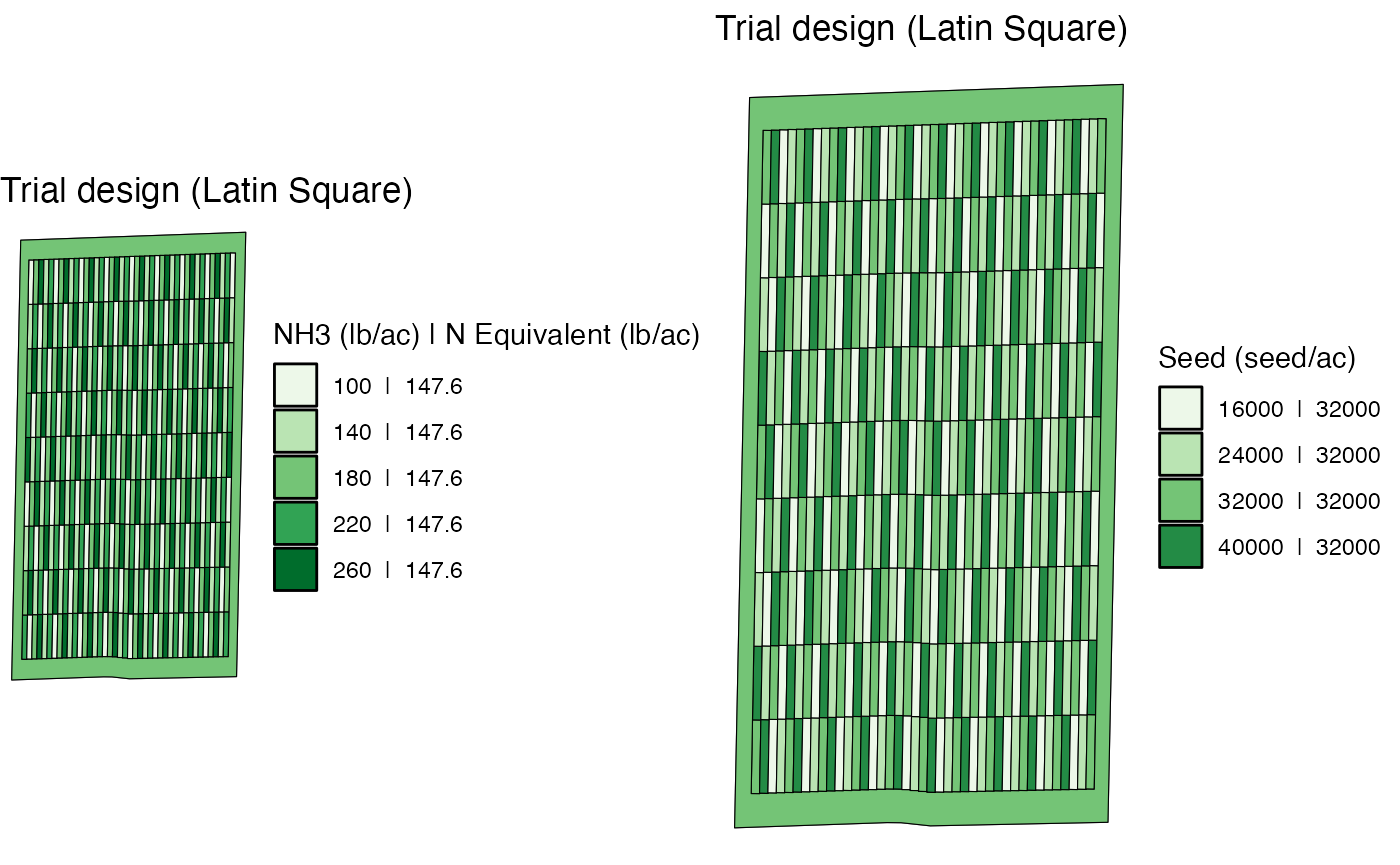
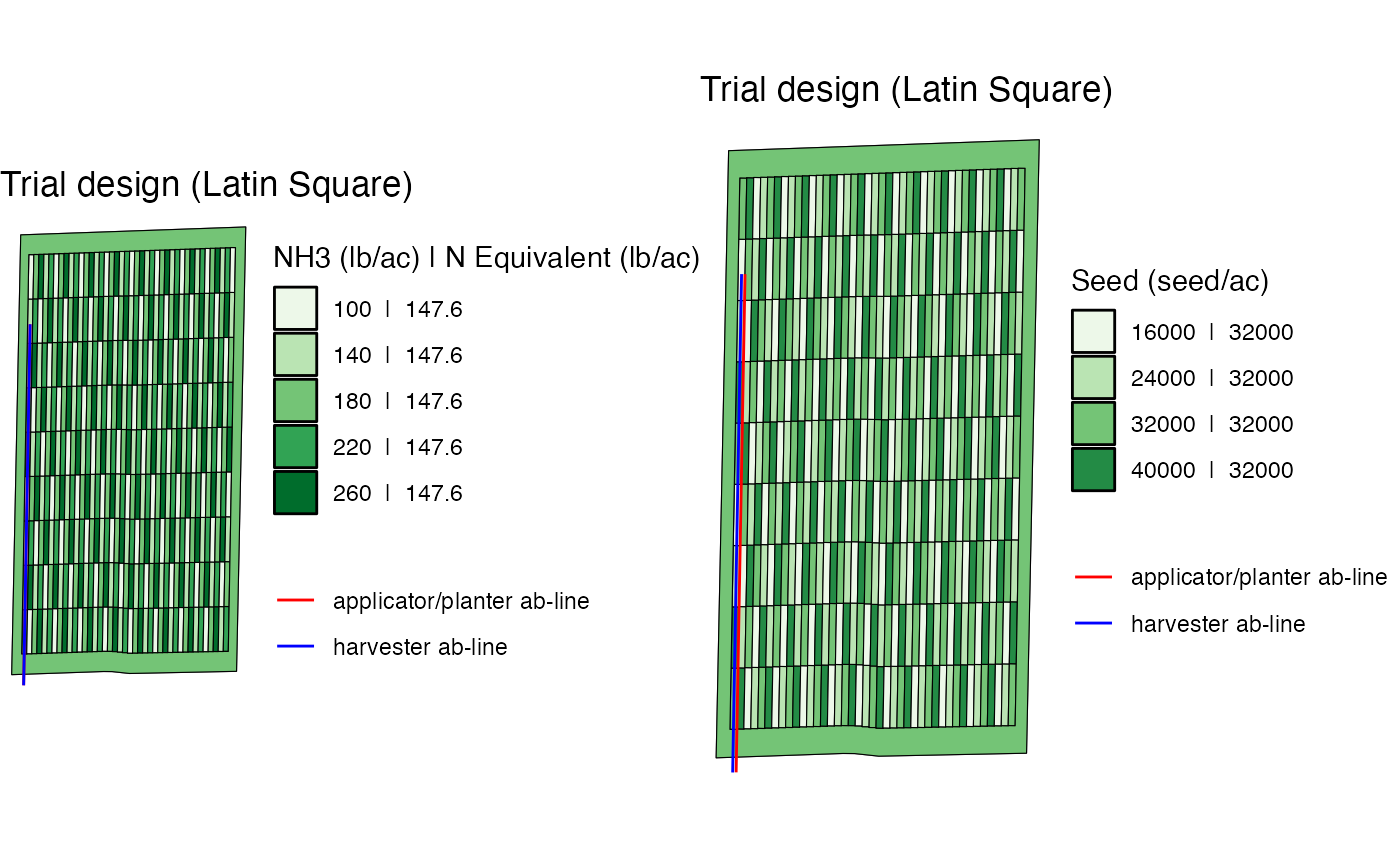
rebuild vignettes and clean up files

Changed region(s): [[0.0, 0.0936, 1.0, 0.9676], [0.5221, 0.0, 0.7986, 0.0624]]

diff --git a/docs/reference/make_trial_report.html b/docs/reference/make_trial_report.html
@@ -1,5 +1,5 @@
 <!DOCTYPE html>
-<!-- Generated by pkgdown: do not edit by hand --><html lang="en"><head><meta http-equiv="Content-Type" content="text/html; charset=UTF-8"><meta charset="utf-8"><meta http-equiv="X-UA-Compatible" content="IE=edge"><meta name="viewport" content="width=device-width, initial-scale=1.0"><title>Create trial design report — make_trial_report • ofpetrial</title><!-- jquery --><script src="https://cdnjs.cloudflare.com/ajax/libs/jquery/3.7.1/jquery.min.js" integrity="sha512-v2CJ7UaYy4JwqLDIrZUI/4hqeoQieOmAZNXBeQyjo21dadnwR+8ZaIJVT8EE2iyI61OV8e6M8PP2/4hpQINQ/g==" crossorigin="anonymous" referrerpolicy="no-referrer"></script><!-- Bootstrap --><link rel="stylesheet" href="https://cdnjs.cloudflare.com/ajax/libs/twitter-bootstrap/3.4.1/css/bootstrap.min.css" integrity="sha256-bZLfwXAP04zRMK2BjiO8iu9pf4FbLqX6zitd+tIvLhE=" crossorigin="anonymous"><script src="https://cdnjs.cloudflare.com/ajax/libs/twitter-bootstrap/3.4.1/js/bootstrap.min.js" integrity="sha256-nuL8/2cJ5NDSSwnKD8VqreErSWHtnEP9E7AySL+1ev4=" crossorigin="anonymous"></script><!-- bootstrap-toc --><link rel="stylesheet" href="../bootstrap-toc.css"><script src="../bootstrap-toc.js"></script><!-- Font Awesome icons --><link rel="stylesheet" href="https://cdnjs.cloudflare.com/ajax/libs/font-awesome/5.12.1/css/all.min.css" integrity="sha256-mmgLkCYLUQbXn0B1SRqzHar6dCnv9oZFPEC1g1cwlkk=" crossorigin="anonymous"><link rel="stylesheet" href="https://cdnjs.cloudflare.com/ajax/libs/font-awesome/5.12.1/css/v4-shims.min.css" integrity="sha256-wZjR52fzng1pJHwx4aV2AO3yyTOXrcDW7jBpJtTwVxw=" crossorigin="anonymous"><!-- clipboard.js --><script src="https://cdnjs.cloudflare.com/ajax/libs/clipboard.js/2.0.6/clipboard.min.js" integrity="sha256-inc5kl9MA1hkeYUt+EC3BhlIgyp/2jDIyBLS6k3UxPI=" crossorigin="anonymous"></script><!-- headroom.js --><script src="https://cdnjs.cloudflare.com/ajax/libs/headroom/0.11.0/headroom.min.js" integrity="sha256-AsUX4SJE1+yuDu5+mAVzJbuYNPHj/WroHuZ8Ir/CkE0=" crossorigin="anonymous"></script><script src="https://cdnjs.cloudflare.com/ajax/libs/headroom/0.11.0/jQuery.headroom.min.js" integrity="sha256-ZX/yNShbjqsohH1k95liqY9Gd8uOiE1S4vZc+9KQ1K4=" crossorigin="anonymous"></script><!-- pkgdown --><link href="../pkgdown.css" rel="stylesheet"><script src="../pkgdown.js"></script><meta property="og:title" content="Create trial design report — make_trial_report"><meta property="og:description" content="This function creates a report describing the trial design created by the user with assign_rates() and includes figures showing machine alignment"><!-- mathjax --><script src="https://cdnjs.cloudflare.com/ajax/libs/mathjax/2.7.5/MathJax.js" integrity="sha256-nvJJv9wWKEm88qvoQl9ekL2J+k/RWIsaSScxxlsrv8k=" crossorigin="anonymous"></script><script src="https://cdnjs.cloudflare.com/ajax/libs/mathjax/2.7.5/config/TeX-AMS-MML_HTMLorMML.js" integrity="sha256-84DKXVJXs0/F8OTMzX4UR909+jtl4G7SPypPavF+GfA=" crossorigin="anonymous"></script><!--[if lt IE 9]>
+<!-- Generated by pkgdown: do not edit by hand --><html lang="en"><head><meta http-equiv="Content-Type" content="text/html; charset=UTF-8"><meta charset="utf-8"><meta http-equiv="X-UA-Compatible" content="IE=edge"><meta name="viewport" content="width=device-width, initial-scale=1.0"><title>Create trial design report — make_trial_report • ofpetrial</title><!-- jquery --><script src="https://cdnjs.cloudflare.com/ajax/libs/jquery/3.7.1/jquery.min.js" integrity="sha512-v2CJ7UaYy4JwqLDIrZUI/4hqeoQieOmAZNXBeQyjo21dadnwR+8ZaIJVT8EE2iyI61OV8e6M8PP2/4hpQINQ/g==" crossorigin="anonymous" referrerpolicy="no-referrer"></script><!-- Bootstrap --><link rel="stylesheet" href="https://cdnjs.cloudflare.com/ajax/libs/twitter-bootstrap/3.4.1/css/bootstrap.min.css" integrity="sha256-bZLfwXAP04zRMK2BjiO8iu9pf4FbLqX6zitd+tIvLhE=" crossorigin="anonymous"><script src="https://cdnjs.cloudflare.com/ajax/libs/twitter-bootstrap/3.4.1/js/bootstrap.min.js" integrity="sha256-nuL8/2cJ5NDSSwnKD8VqreErSWHtnEP9E7AySL+1ev4=" crossorigin="anonymous"></script><!-- bootstrap-toc --><link rel="stylesheet" href="../bootstrap-toc.css"><script src="../bootstrap-toc.js"></script><!-- Font Awesome icons --><link rel="stylesheet" href="https://cdnjs.cloudflare.com/ajax/libs/font-awesome/5.12.1/css/all.min.css" integrity="sha256-mmgLkCYLUQbXn0B1SRqzHar6dCnv9oZFPEC1g1cwlkk=" crossorigin="anonymous"><link rel="stylesheet" href="https://cdnjs.cloudflare.com/ajax/libs/font-awesome/5.12.1/css/v4-shims.min.css" integrity="sha256-wZjR52fzng1pJHwx4aV2AO3yyTOXrcDW7jBpJtTwVxw=" crossorigin="anonymous"><!-- clipboard.js --><script src="https://cdnjs.cloudflare.com/ajax/libs/clipboard.js/2.0.6/clipboard.min.js" integrity="sha256-inc5kl9MA1hkeYUt+EC3BhlIgyp/2jDIyBLS6k3UxPI=" crossorigin="anonymous"></script><!-- headroom.js --><script src="https://cdnjs.cloudflare.com/ajax/libs/headroom/0.11.0/headroom.min.js" integrity="sha256-AsUX4SJE1+yuDu5+mAVzJbuYNPHj/WroHuZ8Ir/CkE0=" crossorigin="anonymous"></script><script src="https://cdnjs.cloudflare.com/ajax/libs/headroom/0.11.0/jQuery.headroom.min.js" integrity="sha256-ZX/yNShbjqsohH1k95liqY9Gd8uOiE1S4vZc+9KQ1K4=" crossorigin="anonymous"></script><!-- pkgdown --><link href="../pkgdown.css" rel="stylesheet"><script src="../pkgdown.js"></script><meta property="og:title" content="Create trial design report — make_trial_report"><meta property="og:description" content="This function creates an html report describing the trial design created by the user with assign_rates() and includes figures showing machine alignment"><!-- mathjax --><script src="https://cdnjs.cloudflare.com/ajax/libs/mathjax/2.7.5/MathJax.js" integrity="sha256-nvJJv9wWKEm88qvoQl9ekL2J+k/RWIsaSScxxlsrv8k=" crossorigin="anonymous"></script><script src="https://cdnjs.cloudflare.com/ajax/libs/mathjax/2.7.5/config/TeX-AMS-MML_HTMLorMML.js" integrity="sha256-84DKXVJXs0/F8OTMzX4UR909+jtl4G7SPypPavF+GfA=" crossorigin="anonymous"></script><!--[if lt IE 9]>
 <script src="https://oss.maxcdn.com/html5shiv/3.7.3/html5shiv.min.js"></script>
 <script src="https://oss.maxcdn.com/respond/1.4.2/respond.min.js"></script>
 <![endif]--><!-- Global site tag (gtag.js) - Google Analytics --><script async src="https://www.googletagmanager.com/gtag/js?id=G-B09QYRX8XQ"></script><script>
@@ -80,11 +80,11 @@
     </div>
 
     <div class="ref-description">
-    <p>This function creates a report describing the trial design created by the user with assign_rates() and includes figures showing machine alignment</p>
+    <p>This function creates an html report describing the trial design created by the user with assign_rates() and includes figures showing machine alignment</p>
     </div>
 
     <div id="ref-usage">
-    <div class="sourceCode"><pre class="sourceCode r"><code><span><span class="fu">make_trial_report</span><span class="op">(</span><span class="va">td</span>, <span class="va">trial_name</span>, folder_path <span class="op">=</span> <span class="fu"><a href="https://rdrr.io/r/base/getwd.html" class="external-link">getwd</a></span><span class="op">(</span><span class="op">)</span><span class="op">)</span></span></code></pre></div>
+    <div class="sourceCode"><pre class="sourceCode r"><code><span><span class="fu">make_trial_report</span><span class="op">(</span><span class="va">td</span>, folder_path <span class="op">=</span> <span class="fu"><a href="https://rdrr.io/r/base/getwd.html" class="external-link">getwd</a></span><span class="op">(</span><span class="op">)</span>, trial_name <span class="op">=</span> <span class="cn">NA</span>, keep_rmd <span class="op">=</span> <span class="cn">FALSE</span><span class="op">)</span></span></code></pre></div>
     </div>
 
     <div id="arguments">
@@ -93,47 +93,32 @@
 <dd><p>trial design created by assign_rates()</p></dd>
 
 
+<dt>folder_path</dt>
+<dd><p>(character) path to the folder in which the report will be saved</p></dd>
+
+
 <dt>trial_name</dt>
 <dd><p>(character) name of trial to be used in report</p></dd>
 
 
-<dt>folder_path</dt>
-<dd><p>(character) path to the folder in which the report will be saved</p></dd>
+<dt>keep_rmd</dt>
+<dd><p>(logical) If FALSE (Default), the original rmd file will be deleted upon creating an html report. Otherwise, the rmd file will be saved in the folder specified by `folder_path`.</p></dd>
 
 </dl></div>
     <div id="value">
     <h2>Value</h2>
     
 
-<p>html document with trial design description and figures to guide trial implementation based on your machinery and plot sizes</p>
+<p>path to the resulting html file (invisible)</p>
     </div>
 
     <div id="ref-examples">
     <h2>Examples</h2>
     <div class="sourceCode"><pre class="sourceCode r"><code><span class="r-in"><span><span class="co">#--- load experiment made by assign_rates() ---#</span></span></span>
 <span class="r-in"><span><span class="fu"><a href="https://rdrr.io/r/utils/data.html" class="external-link">data</a></span><span class="op">(</span><span class="va">td_single_input</span><span class="op">)</span></span></span>
-<span class="r-in"><span><span class="va">td_single_input</span></span></span>
-<span class="r-out co"><span class="r-pr">#&gt;</span> <span style="color: #949494;"># A tibble: 1 × 33</span></span>
-<span class="r-out co"><span class="r-pr">#&gt;</span>   input_name unit_system field_sf headland exp_plots ab_lines harvest_ab_lines</span>
-<span class="r-out co"><span class="r-pr">#&gt;</span>   <span style="color: #949494; font-style: italic;">&lt;chr&gt;</span>      <span style="color: #949494; font-style: italic;">&lt;chr&gt;</span>       <span style="color: #949494; font-style: italic;">&lt;list&gt;</span>   <span style="color: #949494; font-style: italic;">&lt;list&gt;</span>   <span style="color: #949494; font-style: italic;">&lt;list&gt;</span>    <span style="color: #949494; font-style: italic;">&lt;list&gt;</span>   <span style="color: #949494; font-style: italic;">&lt;list&gt;</span>          </span>
-<span class="r-out co"><span class="r-pr">#&gt;</span> <span style="color: #BCBCBC;">1</span> NH3        imperial    <span style="color: #949494;">&lt;sf&gt;</span>     <span style="color: #949494;">&lt;sf&gt;</span>     <span style="color: #949494;">&lt;sf&gt;</span>      <span style="color: #949494;">&lt;sf&gt;</span>     <span style="color: #949494;">&lt;sf [1 × 2]&gt;</span>    </span>
-<span class="r-out co"><span class="r-pr">#&gt;</span> <span style="color: #949494;"># ℹ 26 more variables: plot_width &lt;dbl&gt;, harvester_width &lt;dbl&gt;,</span></span>
-<span class="r-out co"><span class="r-pr">#&gt;</span> <span style="color: #949494;">#   machine_width &lt;dbl&gt;, section_num &lt;dbl&gt;, headland_length &lt;dbl&gt;,</span></span>
-<span class="r-out co"><span class="r-pr">#&gt;</span> <span style="color: #949494;">#   side_length &lt;dbl&gt;, abline_type &lt;chr&gt;, design_type &lt;chr&gt;, gc_rate &lt;dbl&gt;,</span></span>
-<span class="r-out co"><span class="r-pr">#&gt;</span> <span style="color: #949494;">#   unit &lt;chr&gt;, tgt_rate_original &lt;list&gt;, tgt_rate_equiv &lt;list&gt;,</span></span>
-<span class="r-out co"><span class="r-pr">#&gt;</span> <span style="color: #949494;">#   include_base_rate &lt;lgl&gt;, base_input &lt;chr&gt;, base_rate_original &lt;dbl&gt;,</span></span>
-<span class="r-out co"><span class="r-pr">#&gt;</span> <span style="color: #949494;">#   base_rate_equiv &lt;dbl&gt;, total_equiv &lt;list&gt;, min_rate &lt;lgl&gt;, max_rate &lt;lgl&gt;,</span></span>
-<span class="r-out co"><span class="r-pr">#&gt;</span> <span style="color: #949494;">#   num_rates &lt;int&gt;, rank_seq_ws &lt;list&gt;, rank_seq_as &lt;list&gt;, …</span></span>
-<span class="r-in"><span><span class="kw">if</span> <span class="op">(</span><span class="cn">FALSE</span><span class="op">)</span> <span class="op">{</span></span></span>
 <span class="r-in"><span><span class="fu">make_trial_report</span><span class="op">(</span></span></span>
-<span class="r-in"><span>  <span class="va">td_single_input</span>,</span></span>
-<span class="r-in"><span>  <span class="st">"Test Trial"</span>,</span></span>
-<span class="r-in"><span>  <span class="va">folder_path</span></span></span>
+<span class="r-in"><span>  td <span class="op">=</span> <span class="va">td_single_input</span></span></span>
 <span class="r-in"><span><span class="op">)</span></span></span>
-<span class="r-in"><span><span class="op">}</span></span></span>
-<span class="r-in"><span></span></span>
-<span class="r-in"><span><span class="co"># Rmd</span></span></span>
-<span class="r-in"><span><span class="co"># Wrapping up</span></span></span>
 </code></pre></div>
     </div>
   </div>

diff --git a/docs/reference/ofpetrial-package.html b/docs/reference/ofpetrial-package.html
@@ -1,5 +1,5 @@
 <!DOCTYPE html>
-<!-- Generated by pkgdown: do not edit by hand --><html lang="en"><head><meta http-equiv="Content-Type" content="text/html; charset=UTF-8"><meta charset="utf-8"><meta http-equiv="X-UA-Compatible" content="IE=edge"><meta name="viewport" content="width=device-width, initial-scale=1.0"><title>ofpetrial: Design On-farm Precision Field Agronomic Trials — ofpetrial-package • ofpetrial</title><!-- jquery --><script src="https://cdnjs.cloudflare.com/ajax/libs/jquery/3.7.1/jquery.min.js" integrity="sha512-v2CJ7UaYy4JwqLDIrZUI/4hqeoQieOmAZNXBeQyjo21dadnwR+8ZaIJVT8EE2iyI61OV8e6M8PP2/4hpQINQ/g==" crossorigin="anonymous" referrerpolicy="no-referrer"></script><!-- Bootstrap --><link rel="stylesheet" href="https://cdnjs.cloudflare.com/ajax/libs/twitter-bootstrap/3.4.1/css/bootstrap.min.css" integrity="sha256-bZLfwXAP04zRMK2BjiO8iu9pf4FbLqX6zitd+tIvLhE=" crossorigin="anonymous"><script src="https://cdnjs.cloudflare.com/ajax/libs/twitter-bootstrap/3.4.1/js/bootstrap.min.js" integrity="sha256-nuL8/2cJ5NDSSwnKD8VqreErSWHtnEP9E7AySL+1ev4=" crossorigin="anonymous"></script><!-- bootstrap-toc --><link rel="stylesheet" href="../bootstrap-toc.css"><script src="../bootstrap-toc.js"></script><!-- Font Awesome icons --><link rel="stylesheet" href="https://cdnjs.cloudflare.com/ajax/libs/font-awesome/5.12.1/css/all.min.css" integrity="sha256-mmgLkCYLUQbXn0B1SRqzHar6dCnv9oZFPEC1g1cwlkk=" crossorigin="anonymous"><link rel="stylesheet" href="https://cdnjs.cloudflare.com/ajax/libs/font-awesome/5.12.1/css/v4-shims.min.css" integrity="sha256-wZjR52fzng1pJHwx4aV2AO3yyTOXrcDW7jBpJtTwVxw=" crossorigin="anonymous"><!-- clipboard.js --><script src="https://cdnjs.cloudflare.com/ajax/libs/clipboard.js/2.0.6/clipboard.min.js" integrity="sha256-inc5kl9MA1hkeYUt+EC3BhlIgyp/2jDIyBLS6k3UxPI=" crossorigin="anonymous"></script><!-- headroom.js --><script src="https://cdnjs.cloudflare.com/ajax/libs/headroom/0.11.0/headroom.min.js" integrity="sha256-AsUX4SJE1+yuDu5+mAVzJbuYNPHj/WroHuZ8Ir/CkE0=" crossorigin="anonymous"></script><script src="https://cdnjs.cloudflare.com/ajax/libs/headroom/0.11.0/jQuery.headroom.min.js" integrity="sha256-ZX/yNShbjqsohH1k95liqY9Gd8uOiE1S4vZc+9KQ1K4=" crossorigin="anonymous"></script><!-- pkgdown --><link href="../pkgdown.css" rel="stylesheet"><script src="../pkgdown.js"></script><meta property="og:title" content="ofpetrial: Design On-farm Precision Field Agronomic Trials — ofpetrial-package"><meta property="og:description" content="A comprehensive system for designing and implementing on-farm precision field agronomic trials. You provide field data, tell 'ofpetrial' how to design a trial, and get readily-usable trial design files and a report checks the validity and reliability of the trial design."><!-- mathjax --><script src="https://cdnjs.cloudflare.com/ajax/libs/mathjax/2.7.5/MathJax.js" integrity="sha256-nvJJv9wWKEm88qvoQl9ekL2J+k/RWIsaSScxxlsrv8k=" crossorigin="anonymous"></script><script src="https://cdnjs.cloudflare.com/ajax/libs/mathjax/2.7.5/config/TeX-AMS-MML_HTMLorMML.js" integrity="sha256-84DKXVJXs0/F8OTMzX4UR909+jtl4G7SPypPavF+GfA=" crossorigin="anonymous"></script><!--[if lt IE 9]>
+<!-- Generated by pkgdown: do not edit by hand --><html lang="en"><head><meta http-equiv="Content-Type" content="text/html; charset=UTF-8"><meta charset="utf-8"><meta http-equiv="X-UA-Compatible" content="IE=edge"><meta name="viewport" content="width=device-width, initial-scale=1.0"><title>ofpetrial: Design On-Farm Precision Field Agronomic Trials — ofpetrial-package • ofpetrial</title><!-- jquery --><script src="https://cdnjs.cloudflare.com/ajax/libs/jquery/3.7.1/jquery.min.js" integrity="sha512-v2CJ7UaYy4JwqLDIrZUI/4hqeoQieOmAZNXBeQyjo21dadnwR+8ZaIJVT8EE2iyI61OV8e6M8PP2/4hpQINQ/g==" crossorigin="anonymous" referrerpolicy="no-referrer"></script><!-- Bootstrap --><link rel="stylesheet" href="https://cdnjs.cloudflare.com/ajax/libs/twitter-bootstrap/3.4.1/css/bootstrap.min.css" integrity="sha256-bZLfwXAP04zRMK2BjiO8iu9pf4FbLqX6zitd+tIvLhE=" crossorigin="anonymous"><script src="https://cdnjs.cloudflare.com/ajax/libs/twitter-bootstrap/3.4.1/js/bootstrap.min.js" integrity="sha256-nuL8/2cJ5NDSSwnKD8VqreErSWHtnEP9E7AySL+1ev4=" crossorigin="anonymous"></script><!-- bootstrap-toc --><link rel="stylesheet" href="../bootstrap-toc.css"><script src="../bootstrap-toc.js"></script><!-- Font Awesome icons --><link rel="stylesheet" href="https://cdnjs.cloudflare.com/ajax/libs/font-awesome/5.12.1/css/all.min.css" integrity="sha256-mmgLkCYLUQbXn0B1SRqzHar6dCnv9oZFPEC1g1cwlkk=" crossorigin="anonymous"><link rel="stylesheet" href="https://cdnjs.cloudflare.com/ajax/libs/font-awesome/5.12.1/css/v4-shims.min.css" integrity="sha256-wZjR52fzng1pJHwx4aV2AO3yyTOXrcDW7jBpJtTwVxw=" crossorigin="anonymous"><!-- clipboard.js --><script src="https://cdnjs.cloudflare.com/ajax/libs/clipboard.js/2.0.6/clipboard.min.js" integrity="sha256-inc5kl9MA1hkeYUt+EC3BhlIgyp/2jDIyBLS6k3UxPI=" crossorigin="anonymous"></script><!-- headroom.js --><script src="https://cdnjs.cloudflare.com/ajax/libs/headroom/0.11.0/headroom.min.js" integrity="sha256-AsUX4SJE1+yuDu5+mAVzJbuYNPHj/WroHuZ8Ir/CkE0=" crossorigin="anonymous"></script><script src="https://cdnjs.cloudflare.com/ajax/libs/headroom/0.11.0/jQuery.headroom.min.js" integrity="sha256-ZX/yNShbjqsohH1k95liqY9Gd8uOiE1S4vZc+9KQ1K4=" crossorigin="anonymous"></script><!-- pkgdown --><link href="../pkgdown.css" rel="stylesheet"><script src="../pkgdown.js"></script><meta property="og:title" content="ofpetrial: Design On-Farm Precision Field Agronomic Trials — ofpetrial-package"><meta property="og:description" content="A comprehensive system for designing and implementing on-farm precision field agronomic trials. You provide field data, tell 'ofpetrial' how to design a trial, and get readily-usable trial design files and a report checks the validity and reliability of the trial design."><!-- mathjax --><script src="https://cdnjs.cloudflare.com/ajax/libs/mathjax/2.7.5/MathJax.js" integrity="sha256-nvJJv9wWKEm88qvoQl9ekL2J+k/RWIsaSScxxlsrv8k=" crossorigin="anonymous"></script><script src="https://cdnjs.cloudflare.com/ajax/libs/mathjax/2.7.5/config/TeX-AMS-MML_HTMLorMML.js" integrity="sha256-84DKXVJXs0/F8OTMzX4UR909+jtl4G7SPypPavF+GfA=" crossorigin="anonymous"></script><!--[if lt IE 9]>
 <script src="https://oss.maxcdn.com/html5shiv/3.7.3/html5shiv.min.js"></script>
 <script src="https://oss.maxcdn.com/respond/1.4.2/respond.min.js"></script>
 <![endif]--><!-- Global site tag (gtag.js) - Google Analytics --><script async src="https://www.googletagmanager.com/gtag/js?id=G-B09QYRX8XQ"></script><script>
@@ -74,7 +74,7 @@
       </header><div class="row">
   <div class="col-md-9 contents">
     <div class="page-header">
-    <h1>ofpetrial: Design On-farm Precision Field Agronomic Trials</h1>
+    <h1>ofpetrial: Design On-Farm Precision Field Agronomic Trials</h1>
     
     <div class="hidden name"><code>ofpetrial-package.Rd</code></div>
     </div>

diff --git a/docs/reference/check_ortho_with_chars.html b/docs/reference/check_ortho_with_chars.html
@@ -113,7 +113,7 @@
     <div class="sourceCode"><pre class="sourceCode r"><code><span class="r-in"><span><span class="fu"><a href="https://rdrr.io/r/utils/data.html" class="external-link">data</a></span><span class="op">(</span><span class="va">td_single_input</span><span class="op">)</span></span></span>
 <span class="r-in"><span><span class="va">yield_sf</span> <span class="op">&lt;-</span> <span class="fu">sf</span><span class="fu">::</span><span class="fu"><a href="https://r-spatial.github.io/sf/reference/st_read.html" class="external-link">st_read</a></span><span class="op">(</span><span class="fu"><a href="https://rdrr.io/r/base/system.file.html" class="external-link">system.file</a></span><span class="op">(</span><span class="st">"extdata"</span>, <span class="st">"yield-simple1.shp"</span>, package <span class="op">=</span> <span class="st">"ofpetrial"</span><span class="op">)</span><span class="op">)</span></span></span>
 <span class="r-out co"><span class="r-pr">#&gt;</span> Reading layer `yield-simple1' from data source </span>
-<span class="r-out co"><span class="r-pr">#&gt;</span>   `/private/var/folders/t4/5gnqprbn38nftyxkyk5hdwmd8hnypy/T/Rtmp6MTpM7/temp_libpath57d6fa77730/ofpetrial/extdata/yield-simple1.shp' </span>
+<span class="r-out co"><span class="r-pr">#&gt;</span>   `/private/var/folders/t4/5gnqprbn38nftyxkyk5hdwmd8hnypy/T/RtmpPrkVKX/temp_libpath1609e17a3e9b7/ofpetrial/extdata/yield-simple1.shp' </span>
 <span class="r-out co"><span class="r-pr">#&gt;</span>   using driver `ESRI Shapefile'</span>
 <span class="r-out co"><span class="r-pr">#&gt;</span> Simple feature collection with 3365 features and 1 field</span>
 <span class="r-out co"><span class="r-pr">#&gt;</span> Geometry type: POINT</span>
@@ -124,7 +124,7 @@
 <span class="r-in"><span>  <span class="fu">sf</span><span class="fu">::</span><span class="fu"><a href="https://r-spatial.github.io/sf/reference/st_read.html" class="external-link">st_read</a></span><span class="op">(</span><span class="fu"><a href="https://rdrr.io/r/base/system.file.html" class="external-link">system.file</a></span><span class="op">(</span><span class="st">"extdata"</span>, <span class="st">"ssurgo-simple1.shp"</span>, package <span class="op">=</span> <span class="st">"ofpetrial"</span><span class="op">)</span><span class="op">)</span> <span class="op"><a href="pipe.html">%&gt;%</a></span></span></span>
 <span class="r-in"><span>  <span class="fu">dplyr</span><span class="fu">::</span><span class="fu"><a href="https://dplyr.tidyverse.org/reference/mutate.html" class="external-link">mutate</a></span><span class="op">(</span>mukey <span class="op">=</span> <span class="fu"><a href="https://rdrr.io/r/base/factor.html" class="external-link">factor</a></span><span class="op">(</span><span class="va">mukey</span><span class="op">)</span><span class="op">)</span></span></span>
 <span class="r-out co"><span class="r-pr">#&gt;</span> Reading layer `ssurgo-simple1' from data source </span>
-<span class="r-out co"><span class="r-pr">#&gt;</span>   `/private/var/folders/t4/5gnqprbn38nftyxkyk5hdwmd8hnypy/T/Rtmp6MTpM7/temp_libpath57d6fa77730/ofpetrial/extdata/ssurgo-simple1.shp' </span>
+<span class="r-out co"><span class="r-pr">#&gt;</span>   `/private/var/folders/t4/5gnqprbn38nftyxkyk5hdwmd8hnypy/T/RtmpPrkVKX/temp_libpath1609e17a3e9b7/ofpetrial/extdata/ssurgo-simple1.shp' </span>
 <span class="r-out co"><span class="r-pr">#&gt;</span>   using driver `ESRI Shapefile'</span>
 <span class="r-out co"><span class="r-pr">#&gt;</span> Simple feature collection with 11 features and 9 fields</span>
 <span class="r-out co"><span class="r-pr">#&gt;</span> Geometry type: POLYGON</span>

diff --git a/docs/index.html b/docs/index.html
@@ -5,13 +5,13 @@
 <meta charset="utf-8">
 <meta http-equiv="X-UA-Compatible" content="IE=edge">
 <meta name="viewport" content="width=device-width, initial-scale=1.0">
-<title>Design On-farm Precision Field Agronomic Trials • ofpetrial</title>
+<title>Design On-Farm Precision Field Agronomic Trials • ofpetrial</title>
 <!-- jquery --><script src="https://cdnjs.cloudflare.com/ajax/libs/jquery/3.7.1/jquery.min.js" integrity="sha512-v2CJ7UaYy4JwqLDIrZUI/4hqeoQieOmAZNXBeQyjo21dadnwR+8ZaIJVT8EE2iyI61OV8e6M8PP2/4hpQINQ/g==" crossorigin="anonymous" referrerpolicy="no-referrer"></script><!-- Bootstrap --><link rel="stylesheet" href="https://cdnjs.cloudflare.com/ajax/libs/twitter-bootstrap/3.4.1/css/bootstrap.min.css" integrity="sha256-bZLfwXAP04zRMK2BjiO8iu9pf4FbLqX6zitd+tIvLhE=" crossorigin="anonymous">
 <script src="https://cdnjs.cloudflare.com/ajax/libs/twitter-bootstrap/3.4.1/js/bootstrap.min.js" integrity="sha256-nuL8/2cJ5NDSSwnKD8VqreErSWHtnEP9E7AySL+1ev4=" crossorigin="anonymous"></script><!-- bootstrap-toc --><link rel="stylesheet" href="bootstrap-toc.css">
 <script src="bootstrap-toc.js"></script><!-- Font Awesome icons --><link rel="stylesheet" href="https://cdnjs.cloudflare.com/ajax/libs/font-awesome/5.12.1/css/all.min.css" integrity="sha256-mmgLkCYLUQbXn0B1SRqzHar6dCnv9oZFPEC1g1cwlkk=" crossorigin="anonymous">
 <link rel="stylesheet" href="https://cdnjs.cloudflare.com/ajax/libs/font-awesome/5.12.1/css/v4-shims.min.css" integrity="sha256-wZjR52fzng1pJHwx4aV2AO3yyTOXrcDW7jBpJtTwVxw=" crossorigin="anonymous">
 <!-- clipboard.js --><script src="https://cdnjs.cloudflare.com/ajax/libs/clipboard.js/2.0.6/clipboard.min.js" integrity="sha256-inc5kl9MA1hkeYUt+EC3BhlIgyp/2jDIyBLS6k3UxPI=" crossorigin="anonymous"></script><!-- headroom.js --><script src="https://cdnjs.cloudflare.com/ajax/libs/headroom/0.11.0/headroom.min.js" integrity="sha256-AsUX4SJE1+yuDu5+mAVzJbuYNPHj/WroHuZ8Ir/CkE0=" crossorigin="anonymous"></script><script src="https://cdnjs.cloudflare.com/ajax/libs/headroom/0.11.0/jQuery.headroom.min.js" integrity="sha256-ZX/yNShbjqsohH1k95liqY9Gd8uOiE1S4vZc+9KQ1K4=" crossorigin="anonymous"></script><!-- pkgdown --><link href="pkgdown.css" rel="stylesheet">
-<script src="pkgdown.js"></script><meta property="og:title" content="Design On-farm Precision Field Agronomic Trials">
+<script src="pkgdown.js"></script><meta property="og:title" content="Design On-Farm Precision Field Agronomic Trials">
 <meta property="og:description" content="A comprehensive system for designing and implementing on-farm precision field agronomic trials. You provide field data, tell ofpetrial how to design a trial, and get readily-usable trial design files and a report checks the validity and reliability of the trial design.">
 <!-- mathjax --><script src="https://cdnjs.cloudflare.com/ajax/libs/mathjax/2.7.5/MathJax.js" integrity="sha256-nvJJv9wWKEm88qvoQl9ekL2J+k/RWIsaSScxxlsrv8k=" crossorigin="anonymous"></script><script src="https://cdnjs.cloudflare.com/ajax/libs/mathjax/2.7.5/config/TeX-AMS-MML_HTMLorMML.js" integrity="sha256-84DKXVJXs0/F8OTMzX4UR909+jtl4G7SPypPavF+GfA=" crossorigin="anonymous"></script><!--[if lt IE 9]>
 <script src="https://oss.maxcdn.com/html5shiv/3.7.3/html5shiv.min.js"></script>

diff --git a/docs/articles/V4-diagnose-td.html b/docs/articles/V4-diagnose-td.html
@@ -471,7 +471,7 @@ data)</li>
 <div class="sourceCode" id="cb24"><pre class="downlit sourceCode r">
 <code class="sourceCode R"><span><span class="va">yield_sf</span> <span class="op">&lt;-</span> <span class="fu">sf</span><span class="fu">::</span><span class="fu"><a href="https://r-spatial.github.io/sf/reference/st_read.html" class="external-link">st_read</a></span><span class="op">(</span><span class="fu"><a href="https://rdrr.io/r/base/system.file.html" class="external-link">system.file</a></span><span class="op">(</span><span class="st">"extdata"</span>, <span class="st">"yield-simple1.shp"</span>, package <span class="op">=</span> <span class="st">"ofpetrial"</span><span class="op">)</span><span class="op">)</span></span>
 <span><span class="co">#&gt; Reading layer `yield-simple1' from data source </span></span>
-<span><span class="co">#&gt;   `/private/var/folders/t4/5gnqprbn38nftyxkyk5hdwmd8hnypy/T/Rtmp6MTpM7/temp_libpath57d6fa77730/ofpetrial/extdata/yield-simple1.shp' </span></span>
+<span><span class="co">#&gt;   `/private/var/folders/t4/5gnqprbn38nftyxkyk5hdwmd8hnypy/T/RtmpPrkVKX/temp_libpath1609e17a3e9b7/ofpetrial/extdata/yield-simple1.shp' </span></span>
 <span><span class="co">#&gt;   using driver `ESRI Shapefile'</span></span>
 <span><span class="co">#&gt; Simple feature collection with 3365 features and 1 field</span></span>
 <span><span class="co">#&gt; Geometry type: POINT</span></span>
@@ -491,7 +491,7 @@ data)</li>
 <span>  <span class="fu">sf</span><span class="fu">::</span><span class="fu"><a href="https://r-spatial.github.io/sf/reference/st_read.html" class="external-link">st_read</a></span><span class="op">(</span><span class="fu"><a href="https://rdrr.io/r/base/system.file.html" class="external-link">system.file</a></span><span class="op">(</span><span class="st">"extdata"</span>, <span class="st">"ssurgo-simple1.shp"</span>, package <span class="op">=</span> <span class="st">"ofpetrial"</span><span class="op">)</span><span class="op">)</span> <span class="op"><a href="../reference/pipe.html">%&gt;%</a></span></span>
 <span>  <span class="fu">dplyr</span><span class="fu">::</span><span class="fu"><a href="https://dplyr.tidyverse.org/reference/mutate.html" class="external-link">mutate</a></span><span class="op">(</span>mukey <span class="op">=</span> <span class="fu"><a href="https://rdrr.io/r/base/factor.html" class="external-link">factor</a></span><span class="op">(</span><span class="va">mukey</span><span class="op">)</span><span class="op">)</span></span>
 <span><span class="co">#&gt; Reading layer `ssurgo-simple1' from data source </span></span>
-<span><span class="co">#&gt;   `/private/var/folders/t4/5gnqprbn38nftyxkyk5hdwmd8hnypy/T/Rtmp6MTpM7/temp_libpath57d6fa77730/ofpetrial/extdata/ssurgo-simple1.shp' </span></span>
+<span><span class="co">#&gt;   `/private/var/folders/t4/5gnqprbn38nftyxkyk5hdwmd8hnypy/T/RtmpPrkVKX/temp_libpath1609e17a3e9b7/ofpetrial/extdata/ssurgo-simple1.shp' </span></span>
 <span><span class="co">#&gt;   using driver `ESRI Shapefile'</span></span>
 <span><span class="co">#&gt; Simple feature collection with 11 features and 9 fields</span></span>
 <span><span class="co">#&gt; Geometry type: POLYGON</span></span>

diff --git a/docs/reference/write_trial_files.html b/docs/reference/write_trial_files.html
@@ -104,7 +104,7 @@
 
 
 <dt>ext</dt>
-<dd><p>(character) Default = "shp". Extension to use to save the files, "geojson" or any other extension supported by st_write()</p></dd>
+<dd><p>(character) Default = "shp". Extension to use to save the files, "geojson" or any other extension supported by sf::st_write()</p></dd>
 
 
 <dt>zip</dt>
@@ -126,13 +126,18 @@
     <h2>Examples</h2>
     <div class="sourceCode"><pre class="sourceCode r"><code><span class="r-in"><span><span class="co">#--- load trial design ---#</span></span></span>
 <span class="r-in"><span><span class="fu"><a href="https://rdrr.io/r/utils/data.html" class="external-link">data</a></span><span class="op">(</span><span class="va">td_two_input</span><span class="op">)</span></span></span>
-<span class="r-in"><span><span class="kw">if</span> <span class="op">(</span><span class="cn">FALSE</span><span class="op">)</span> <span class="op">{</span></span></span>
+<span class="r-in"><span></span></span>
 <span class="r-in"><span><span class="fu">write_trial_files</span><span class="op">(</span></span></span>
 <span class="r-in"><span>  td <span class="op">=</span> <span class="va">td_two_input</span>,</span></span>
-<span class="r-in"><span>  folder_path <span class="op">=</span> <span class="cn">NA</span>,</span></span>
-<span class="r-in"><span>  zip <span class="op">=</span> <span class="cn">TRUE</span></span></span>
+<span class="r-in"><span>  folder_path <span class="op">=</span> <span class="fu"><a href="https://rdrr.io/r/base/tempfile.html" class="external-link">tempdir</a></span><span class="op">(</span><span class="op">)</span>,</span></span>
+<span class="r-in"><span>  zip <span class="op">=</span> <span class="cn">FALSE</span></span></span>
 <span class="r-in"><span><span class="op">)</span></span></span>
-<span class="r-in"><span><span class="op">}</span></span></span>
+<span class="r-msg co"><span class="r-pr">#&gt;</span> Writing the trial design as .shp files. </span>
+<span class="r-msg co"><span class="r-pr">#&gt;</span> Writing the trial design as .shp files. </span>
+<span class="r-msg co"><span class="r-pr">#&gt;</span> Writing the ab-lines as .shp files. </span>
+<span class="r-msg co"><span class="r-pr">#&gt;</span> Writing the ab-lines as .shp files. </span>
+<span class="r-msg co"><span class="r-pr">#&gt;</span> Writing the harvester ab-line as .shp file. </span>
+<span class="r-in"><span></span></span>
 </code></pre></div>
     </div>
   </div>

diff --git a/docs/articles/V0-basic-work-flow.html b/docs/articles/V0-basic-work-flow.html
@@ -367,7 +367,7 @@ experiment plots.</p>
 <p>Here is the visualization of the trial design done by
 <code>viz</code>.</p>
 <div class="sourceCode" id="cb9"><pre class="downlit sourceCode r">
-<code class="sourceCode R"><span><span class="fu"><a href="../reference/viz.html">viz</a></span><span class="op">(</span><span class="va">trial_design</span><span class="op">)</span></span></code></pre></div>
+<code class="sourceCode R"><span><span class="fu"><a href="../reference/viz.html">viz</a></span><span class="op">(</span><span class="va">trial_design</span>, abline <span class="op">=</span> <span class="cn">TRUE</span><span class="op">)</span></span></code></pre></div>
 <p><img src="V0-basic-work-flow_files/figure-html/unnamed-chunk-9-1.png" width="700"></p>
 <p>Along with the spatial pattern of the input rates, the
 applicator/planter ab-line and harvester ab-line are drawn by
@@ -404,8 +404,7 @@ displaying how the provided ab-lines and machines will line up inside
 the trial plots.</p>
 <div class="sourceCode" id="cb11"><pre class="downlit sourceCode r">
 <code class="sourceCode R"><span><span class="fu"><a href="../reference/make_trial_report.html">make_trial_report</a></span><span class="op">(</span></span>
-<span>  td <span class="op">=</span> <span class="va">td</span>,</span>
-<span>  trial_name <span class="op">=</span> <span class="st">"testing"</span>,</span>
+<span>  td <span class="op">=</span> <span class="va">trial_design</span>,</span>
 <span>  folder_path <span class="op">=</span> <span class="fu"><a href="https://rdrr.io/r/base/getwd.html" class="external-link">getwd</a></span><span class="op">(</span><span class="op">)</span></span>
 <span><span class="op">)</span></span></code></pre></div>
 </div>

diff --git a/docs/articles/V2-ab-line.html b/docs/articles/V2-ab-line.html
@@ -204,7 +204,7 @@ create an AB-line for a new soybean trial with the same equipment.</p>
 <code class="sourceCode R"><span><span class="va">aa</span> <span class="op">&lt;-</span> <span class="fu"><a href="https://rdrr.io/r/base/system.file.html" class="external-link">system.file</a></span><span class="op">(</span><span class="st">"extdata"</span>, <span class="st">"as-applied-simple1.shp"</span>, package <span class="op">=</span> <span class="st">"ofpetrial"</span><span class="op">)</span> <span class="op"><a href="../reference/pipe.html">%&gt;%</a></span></span>
 <span>  <span class="fu">sf</span><span class="fu">::</span><span class="fu"><a href="https://r-spatial.github.io/sf/reference/st_read.html" class="external-link">st_read</a></span><span class="op">(</span><span class="op">)</span></span>
 <span><span class="co">#&gt; Reading layer `as-applied-simple1' from data source </span></span>
-<span><span class="co">#&gt;   `/private/var/folders/t4/5gnqprbn38nftyxkyk5hdwmd8hnypy/T/Rtmp6MTpM7/temp_libpath57d6fa77730/ofpetrial/extdata/as-applied-simple1.shp' </span></span>
+<span><span class="co">#&gt;   `/private/var/folders/t4/5gnqprbn38nftyxkyk5hdwmd8hnypy/T/RtmpPrkVKX/temp_libpath1609e17a3e9b7/ofpetrial/extdata/as-applied-simple1.shp' </span></span>
 <span><span class="co">#&gt;   using driver `ESRI Shapefile'</span></span>
 <span><span class="co">#&gt; Simple feature collection with 2081 features and 3 fields</span></span>
 <span><span class="co">#&gt; Geometry type: POINT</span></span>

diff --git a/docs/reference/viz.html b/docs/reference/viz.html
@@ -122,12 +122,6 @@
 <span class="r-in"><span><span class="fu"><a href="https://rdrr.io/r/utils/data.html" class="external-link">data</a></span><span class="op">(</span><span class="va">td_two_input</span><span class="op">)</span></span></span>
 <span class="r-in"><span><span class="fu">viz</span><span class="op">(</span><span class="va">td_two_input</span><span class="op">)</span></span></span>
 <span class="r-plt img"><img src="viz-1.png" alt="" width="700" height="433"></span>
-<span class="r-in"><span><span class="fu">viz</span><span class="op">(</span><span class="va">td_two_input</span>, type <span class="op">=</span> <span class="st">"plot_id"</span><span class="op">)</span></span></span>
-<span class="r-wrn co"><span class="r-pr">#&gt;</span> <span class="warning">Warning: </span>Removed 1 row containing missing values or values outside the scale range</span>
-<span class="r-wrn co"><span class="r-pr">#&gt;</span> (`geom_text()`).</span>
-<span class="r-wrn co"><span class="r-pr">#&gt;</span> <span class="warning">Warning: </span>Removed 1 row containing missing values or values outside the scale range</span>
-<span class="r-wrn co"><span class="r-pr">#&gt;</span> (`geom_text()`).</span>
-<span class="r-plt img"><img src="viz-2.png" alt="" width="700" height="433"></span>
 <span class="r-in"><span></span></span>
 </code></pre></div>
     </div>

diff --git a/docs/articles/V5-understanding-structure.html b/docs/articles/V5-understanding-structure.html
@@ -449,7 +449,7 @@ have a mixed treatment problem.</p>
 <span><span class="co">#&gt; $ harvest_ab_line  <span style="color: #949494; font-style: italic;">&lt;LINESTRING [m]&gt;</span> LINESTRING (353044.9 433140..., LINESTRING (353044.9 …</span></span>
 <span><span class="co">#&gt; $ overlap_data     <span style="color: #949494; font-style: italic;">&lt;list&gt;</span> [&lt;data.table[33 x 7]&gt;], [&lt;data.table[41 x 7]&gt;]</span></span>
 <span><span class="co">#&gt; $ harvester_path   <span style="color: #949494; font-style: italic;">&lt;list&gt;</span> [&lt;sf[46 x 3]&gt;], [&lt;sf[46 x 3]&gt;]</span></span>
-<span><span class="co">#&gt; $ g_path_alignment <span style="color: #949494; font-style: italic;">&lt;list&gt;</span> [NULL, &lt;environment: 0x145e52960&gt;, &lt;enviro…</span></span>
+<span><span class="co">#&gt; $ g_path_alignment <span style="color: #949494; font-style: italic;">&lt;list&gt;</span> [NULL, &lt;environment: 0x11dc3dd88&gt;, &lt;enviro…</span></span>
 <span><span class="co">#&gt; $ g_overlap        <span style="color: #949494; font-style: italic;">&lt;list&gt;</span> [9.0000000, 10.0000000, 11.0000000, 12.0000000, 13.0…</span></span></code></pre></div>
 <p>As you can see, its output has four list-columns and there are three
 different types of objects stored in them.</p>

diff --git a/docs/authors.html b/docs/authors.html
@@ -97,11 +97,11 @@
 
 
     <p>Mieno T, Edge B (2024).
-<em>ofpetrial: Design On-farm Precision Field Agronomic Trials</em>.
+<em>ofpetrial: Design On-Farm Precision Field Agronomic Trials</em>.
 R package version 0.1.0. 
 </p>
     <pre>@Manual{,
-  title = {ofpetrial: Design On-farm Precision Field Agronomic Trials},
+  title = {ofpetrial: Design On-Farm Precision Field Agronomic Trials},
   author = {Taro { Mieno} and Brittani Edge},
   year = {2024},
   note = {R package version 0.1.0},
